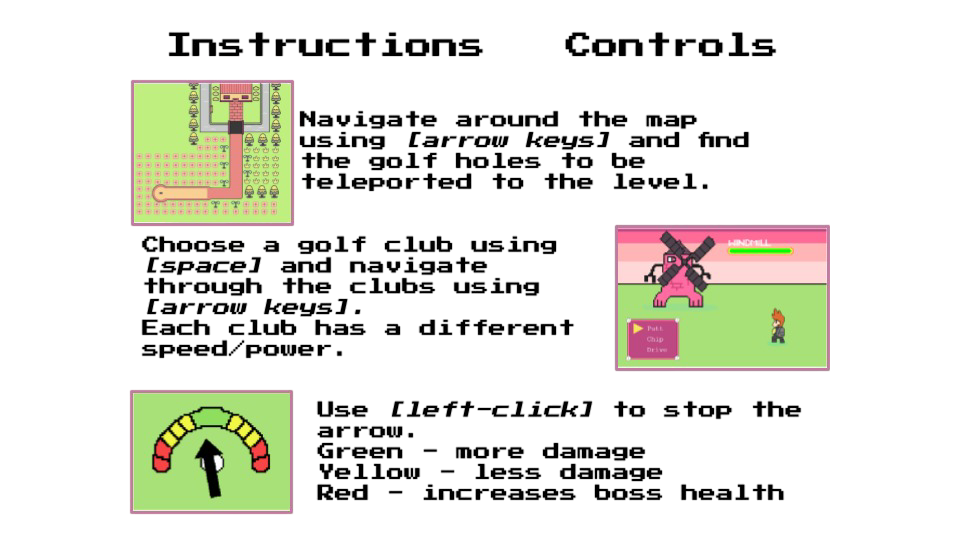
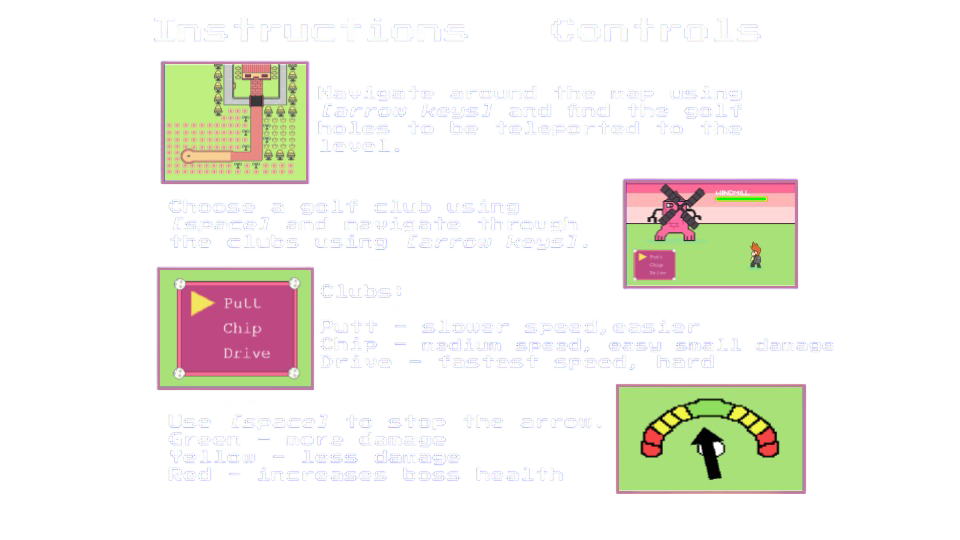
changed input to space for swing ball and updated instructions

diff --git a/src/scenes/Play.js b/src/scenes/Play.js
@@ -11,6 +11,7 @@ class Play extends Phaser.Scene {
         this.currentClub = null
         this.isStopped = false
         this.par = 0
+        this.isSelecting = true     // var to handle toggling between shoot and select
 
         // health bar
         this.healthBarFill = null
@@ -172,15 +173,18 @@ class Play extends Phaser.Scene {
 
         if (this.isMeterActive) return
 
-        if (upJustPressed) {
-			this.selectNextButton(-1)
-		}
-		else if (downJustPressed) {
-			this.selectNextButton(1)
-		}
-		else if (spaceJustPressed) {
-			this.confirmSelection()
-		}
+        if (this.isSelecting) {
+           if (upJustPressed) {
+                this.selectNextButton(-1)
+            }
+            else if (downJustPressed) {
+                this.selectNextButton(1)
+            }
+            else if (spaceJustPressed) {
+                this.confirmSelection()
+                this.isSelecting = false    // switch space for shooting
+            } 
+        }
 
         
         // check if score is 0 yet
@@ -235,6 +239,7 @@ class Play extends Phaser.Scene {
         const button = this.buttons[this.selectedButtonIndex]   // currently selected button
         this.sound.play('clubSelect')
         button.emit('selected')
+        this.isSelecting = false
     }
 
     // Functions for handling the starting and functioning of the moving meter 
@@ -258,7 +263,7 @@ class Play extends Phaser.Scene {
             this.meterE.setVisible(true)
             this.greenRange = [-10, 10]
             this.yellowRange = [-30, 30]
-            this.meterSpeed = 1.5
+            this.meterSpeed = 2.5
         } else if(club === 'chip') {
             this.meterM.setVisible(true)
             this.greenRange = [-30, 30]
@@ -268,10 +273,10 @@ class Play extends Phaser.Scene {
             this.meterD.setVisible(true)
             this.greenRange = [-50, 50]
             this.yellowRange = [-60, 60]
-            this.meterSpeed = 7.5
+            this.meterSpeed = 9.5
         }
 
-        this.input.once('pointerdown', () => {
+        this.cursors.space.once('down', () => {
             this.stopPointer(), 
             this.sound.play('hit'),
             this.parText.setText('Current Par: ' + this.par) // update par text
@@ -298,9 +303,9 @@ class Play extends Phaser.Scene {
             this.meterE.setVisible(false)
             this.meterM.setVisible(false)
             this.meterD.setVisible(false)
-            // this.graphics.clear()
             this.showMenu()
             this.isMeterActive = false
+            this.isSelecting = true
         })
     }
 

diff --git a/src/scenes/Instructions.js b/src/scenes/Instructions.js
@@ -6,8 +6,12 @@ class Instructions extends Phaser.Scene {
     create() {
         // background
         this.cameras.main.setBackgroundColor('#A8E178')
+
+        // pink background
         this.add.image(game.config.width/2, game.config.height/2, 'menuBg').setScale(2, 1.5).setOrigin(0.5)
-        this.add.image(game.config.width/2, game.config.height/2, 'inst').setOrigin(0.5)
+        
+        // instruction text
+        this.add.image(game.config.width/2 - 15, game.config.height/2 + 10, 'inst').setOrigin(0.5)
 
         // display menu text
         this.add.text(game.config.width/2, game.config.height/1 - borderUISize - borderPadding, 'press [space] to return to main menu', {
@@ -17,10 +21,9 @@ class Instructions extends Phaser.Scene {
             // color: '#000'
         }).setOrigin(0.5)
         
-        this.add.text(game.config.width/2 + 50, 100, '+', {
+        this.add.text(game.config.width/2 + 15, 95, '+', {
             fontSize: '50px',
             align: 'left',
-            color: '#000',
             fontStyle: 'bold'
         }).setOrigin(0.5)
         

diff --git a/src/scenes/Menu.js b/src/scenes/Menu.js
@@ -31,8 +31,8 @@ class Menu extends Phaser.Scene {
 
         // skip to play/map scene for debugging 
         // this.scene.start("mapScene")
-        this.scene.start("playScene") 
-        // this.scene.start("instScene")
+        // this.scene.start("playScene") 
+        this.scene.start("instScene")
 
     }
 
